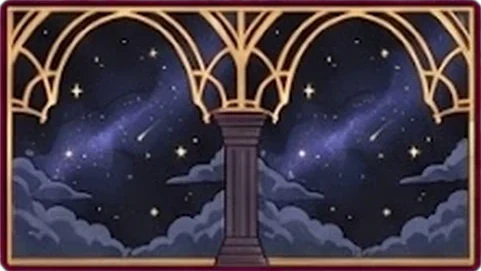
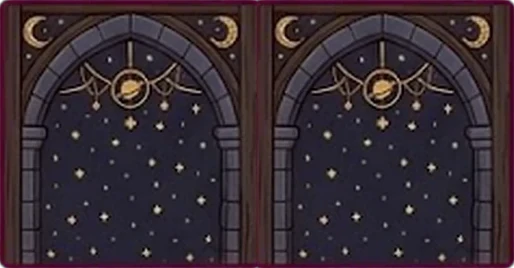
🐛 아공간 러그 위에 가구 놓기 · 마법진 별빛 아치 벽 2·3칸 그림 고침 (판 82)
Claude-Session: https://claude.ai/code/session_01WWoPCKk2gGNwj6qV14RFC8

diff --git a/index.html b/index.html
@@ -3200,7 +3200,7 @@ const NEW_FURN66 = [
 { const at = DEFAULT_SHOP.findIndex(x=>x.code==='xmastree'); DEFAULT_SHOP.splice(at<0?DEFAULT_SHOP.length:at, 0, ...NEW_STUDY.map(([code,emoji,name,price,w,h,category])=>({code,emoji,name,price,w,h,active:true,category,icon:code,layer:'furniture'}))); NEW_STUDY.forEach(r=>FURN_IMG.add(r[0])); }
 const fimgKey = it => !it ? null : FURN_IMG.has(it.code) ? it.code : (it.icon && FURN_IMG.has(it.icon)) ? it.icon : null;
 // 🧽 누끼를 다시 딴 그림 (같은 이름으로 덮어쓰니까 ?v= 를 붙여 옛 그림 캐시를 피해요) — 또 고치면 숫자만 올리기
-const FURN_VER = {candlestick:2, tbl_side:3, tbl_two:3, tbl_long:3, tbl_wide:3, lantern:2, tr_medal:2, tr_scarf:2, oldkey:2, gears:2, globe:2, wall_trellis:2, eggchair:2, hammock:2, hammock2:2, diningtable:2, rocking:2, rocking2:2, clip:2, glasses:2};
+const FURN_VER = {candlestick:2, tbl_side:3, tbl_two:3, tbl_long:3, tbl_wide:3, lantern:2, tr_medal:2, tr_scarf:2, oldkey:2, gears:2, globe:2, wall_trellis:2, eggchair:2, hammock:2, hammock2:2, diningtable:2, rocking:2, rocking2:2, clip:2, glasses:2, v_magic_w3_2:2, v_magic_w3_3:2};
 const furnV = k => FURN_VER[k] ? `?v=${FURN_VER[k]}` : '';
 const fimg = it => fimgKey(it) ? `furn/${fimgKey(it)}.webp${furnV(fimgKey(it))}` : null;
 const icoSrc = it => it && WALL_H.has(it.code) && fimg(it) ? `furn/${it.code}_h.webp` : fimg(it);   // 예전 벽 4종은 상점·가방에서 앞모습으로
@@ -6218,7 +6218,7 @@ function voidRoomHTML(V, editable){
   if(editable){ selected = VSEL; hover = VHOVER; rotated = VROT; } else { selected = null; hover = null; }
   let h; try{ h = roomHTML(list, cur, {editable, maxR:V.rows, maxC:V.cols}); } finally { [selected, hover, rotated] = sv; }
   if(editable) h = h.replace(/data-pid=/g,'data-vpid=').replace(/data-r=/g,'data-vr=').replace(/data-c=/g,'data-vc=');
-  return `<div class="room void-room ${editable?'':'view'}" style="grid-template-columns:repeat(${V.cols},var(--tile));grid-template-rows:repeat(${V.rows},var(--tile))">${h}</div>`;
+  return `<div class="room void-room ${editable?'':'view'} ${editable && VSEL?'placing':''}" style="grid-template-columns:repeat(${V.cols},var(--tile));grid-template-rows:repeat(${V.rows},var(--tile))">${h}</div>`;
 }
 function voidFarmReady(V){
   const n = (V.farm_pets||[]).length; if(!n || !V.farm_at) return 0;
@@ -9313,6 +9313,6 @@ start();
 </script>
 <script src="stall.js?v=1025a"></script>
 <script src="merchant.js?v=1025c"></script>
-<p class="site-ver">마감의 숲 · 10-25 판 81</p>
+<p class="site-ver">마감의 숲 · 10-25 판 82</p>
 </body>
 </html>
